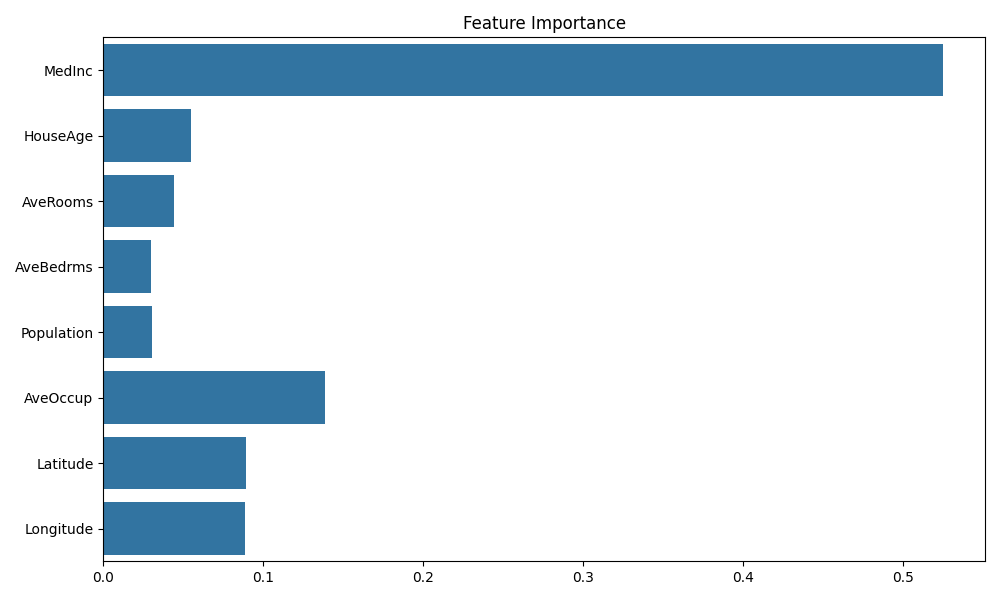
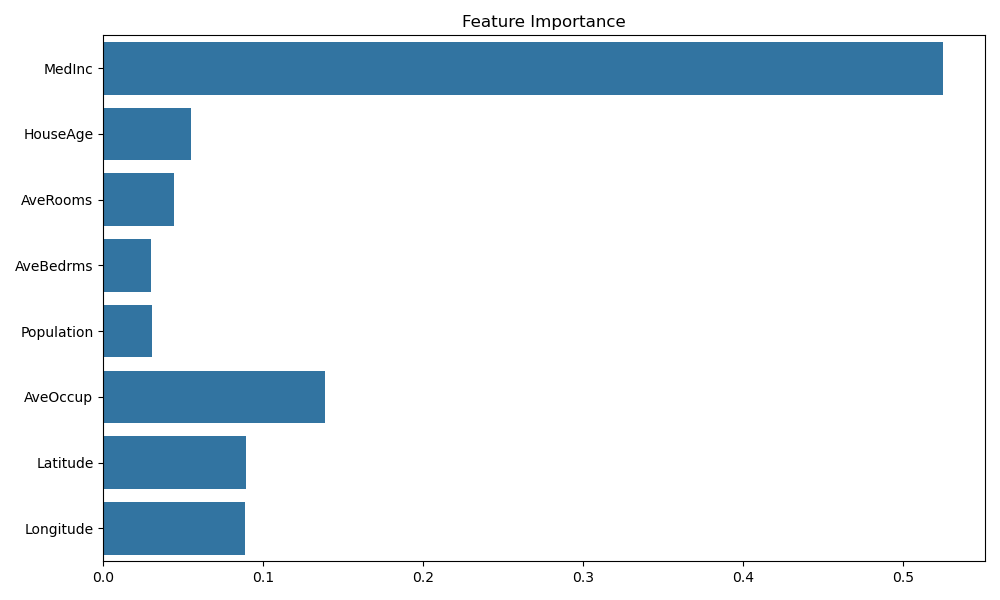
modified:   README.md         modified:   feature_importance.png         modified:   random_forest_regression.py         modified:   regression_plot.png

diff --git a/random_forest_regression.py b/random_forest_regression.py
@@ -5,11 +5,25 @@ from sklearn.model_selection import train_test_split
 from sklearn.metrics import mean_squared_error, r2_score
 import matplotlib.pyplot as plt
 import seaborn as sns
+from sklearn.datasets import fetch_california_housing
 
-# Generate example data
-np.random.seed(42)
-X = np.random.rand(100, 3)  # 100 samples, 3 features
-y = 2 * X[:, 0] + 3 * X[:, 1] + 4 * X[:, 2] + np.random.randn(100)  # Linear relationship with noise
+# Load the California Housing dataset
+housing = fetch_california_housing()
+X = housing.data
+y = housing.target
+feature_names = housing.feature_names
+
+# Convert to DataFrame for better visualization
+df = pd.DataFrame(X, columns=feature_names)
+df['MEDV'] = y  # MEDV is the target variable (median house value)
+
+# Display basic information about the dataset
+print("\nDataset Information:")
+print(f"Number of samples: {X.shape[0]}")
+print(f"Number of features: {X.shape[1]}")
+print("\nFeature names:")
+for i, name in enumerate(feature_names):
+    print(f"{i+1}. {name}")
 
 # Split the data into training and testing sets
 X_train, X_test, y_train, y_test = train_test_split(X, y, test_size=0.2, random_state=42)
@@ -24,30 +38,37 @@ y_pred = rf_model.predict(X_test)
 # Calculate and print metrics
 mse = mean_squared_error(y_test, y_pred)
 r2 = r2_score(y_test, y_pred)
-print(f"Mean Squared Error: {mse:.4f}")
+print(f"\nMean Squared Error: {mse:.4f}")
 print(f"R-squared Score: {r2:.4f}")
 
 # Print feature importance
 print("\nFeature Importance:")
-for i, importance in enumerate(rf_model.feature_importances_):
-    print(f"Feature {i+1}: {importance:.4f}")
+for name, importance in zip(feature_names, rf_model.feature_importances_):
+    print(f"{name}: {importance:.4f}")
 
 # Plot actual vs predicted values
-plt.figure(figsize=(8, 6))
+plt.figure(figsize=(10, 6))
 plt.scatter(y_test, y_pred, alpha=0.5)
 plt.plot([y_test.min(), y_test.max()], [y_test.min(), y_test.max()], 'r--', lw=2)
-plt.xlabel('Actual Values')
-plt.ylabel('Predicted Values')
-plt.title('Actual vs Predicted Values')
+plt.xlabel('Actual House Value (in $100,000)')
+plt.ylabel('Predicted House Value (in $100,000)')
+plt.title('Actual vs Predicted House Values')
 plt.tight_layout()
 plt.savefig('regression_plot.png')
 plt.close()
 
-# Example of predicting new data
-new_data = np.array([[0.1, 0.2, 0.3],  # Example 1
-                     [0.4, 0.5, 0.6]])  # Example 2
+# Plot feature importance
+plt.figure(figsize=(10, 6))
+sns.barplot(x=rf_model.feature_importances_, y=feature_names)
+plt.title('Feature Importance')
+plt.tight_layout()
+plt.savefig('feature_importance.png')
+plt.close()
 
+# Example of predicting new data
+# Let's use the first two samples from the test set as examples
+new_data = X_test[:2]
 new_predictions = rf_model.predict(new_data)
 print("\nPredictions for new data:")
 for i, pred in enumerate(new_predictions):
-    print(f"Sample {i+1}: {pred:.4f}")
+    print(f"Sample {i+1}: ${pred*100000:.2f}")

diff --git a/README.md b/README.md
@@ -1,22 +1,30 @@
 <div style="font-size:2.5em; font-weight:bold; text-align:center; margin-top:20px;">Random Forest Regression Project</div>
 
 # 1. Project Overview
-This project demonstrates the implementation of a Random Forest Regression model using scikit-learn. It includes data generation, model training, evaluation, and visualization of results.
+This project implements a Random Forest Regression model using scikit-learn to predict California housing prices. The model is trained on the California Housing dataset and includes comprehensive data analysis, model evaluation, and visualization of results.
 
 # 2. Project Structure
 - `random_forest_regression.py`: Main Python script containing the implementation
-- `regression_plot.png`: Visualization of actual vs predicted values
+- `regression_plot.png`: Visualization of actual vs predicted house values
 - `feature_importance.png`: Visualization of feature importance
 - `requirements.txt`: Python package dependencies
 - `environment.yml`: Conda environment configuration
 
 # 3. Features
-- Random Forest Regression implementation
-- Data generation with synthetic features
+- Implementation of Random Forest Regression using scikit-learn
+- Uses the California Housing dataset with 8 features:
+  - MedInc: Median income in block group
+  - HouseAge: Median house age in block group
+  - AveRooms: Average number of rooms per household
+  - AveBedrms: Average number of bedrooms per household
+  - Population: Block group population
+  - AveOccup: Average number of household members
+  - Latitude: Block group latitude
+  - Longitude: Block group longitude
 - Model evaluation using MSE and R² metrics
 - Feature importance analysis
-- Visualization of predictions
-- Example of making predictions on new data
+- Visualization of predictions and feature importance
+- Example predictions on new data
 
 # 4. Dependencies
 - numpy
@@ -38,10 +46,13 @@ python random_forest_regression.py
 
 # 6. Output
 The script will:
-- Train a Random Forest Regression model
+- Load and analyze the California Housing dataset
+- Train a Random Forest Regression model with 100 estimators
 - Display model performance metrics (MSE and R²)
-- Show feature importance
-- Generate visualization plots
+- Show feature importance rankings
+- Generate visualization plots:
+  - Actual vs Predicted house values
+  - Feature importance bar plot
 - Make predictions on example new data
 
 # 7. Results
@@ -49,7 +60,7 @@ The model performance can be evaluated through:
 - Mean Squared Error (MSE)
 - R-squared Score
 - Feature importance rankings
-- Visual comparison of actual vs predicted values
+- Visual comparison of actual vs predicted house values
 
 # 8. License
 This project is open source and available for educational purposes.
